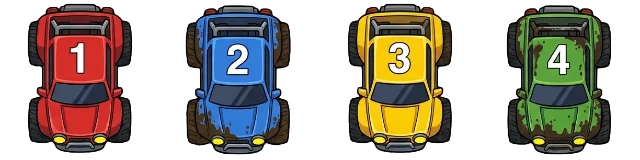
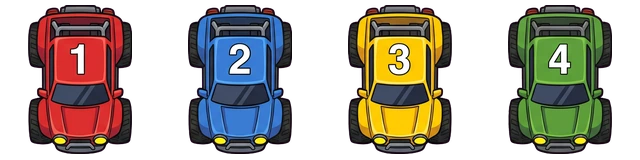
Auto che si sporcano di fango
Gemini ha ridisegnato le 4 auto pulite (img/auto.webp: prima la blu e
la verde partivano già infangate) e 8 schizzi di fango
(img/schizzi.webp). Ogni secondo nel fango aggiunge schizzi sulla
carrozzeria, ritagliati sulla sagoma dell'auto: prima fiancate e
paraurti, poi cofano e tetto. L'acqua ne lava via una parte; ogni gara
si riparte puliti. Solo disegno: la simulazione non cambia.

diff --git a/game.js b/game.js
@@ -19,7 +19,7 @@
   // La grafica viene da Gemini (design/ sono i bozzetti, img/ gli asset scontornati):
   // texture di terreno e strada ripetute, oggetti di contorno a fogli 4×2 da 160 px.
   const ART = {};
-  const ART_FILES = ["auto", "nitro", "cava-terreno", "cava-strada", "cava-oggetti", "palude-terreno", "palude-strada", "palude-oggetti", "dune-terreno", "dune-strada", "dune-oggetti", "fango", "pozzanghere"];
+  const ART_FILES = ["auto", "nitro", "cava-terreno", "cava-strada", "cava-oggetti", "palude-terreno", "palude-strada", "palude-oggetti", "dune-terreno", "dune-strada", "dune-oggetti", "fango", "pozzanghere", "schizzi"];
   const loadArt = () => Promise.all(ART_FILES.map((n) => new Promise((ok) => {
     const im = new Image();
     im.onload = () => { ART[n] = im; ok(); };
@@ -216,6 +216,8 @@
     skid = document.createElement("canvas"); skid.width = W * S; skid.height = H * S;
     skidG = skid.getContext("2d"); skidG.scale(S, S);
     parts = [];
+    mud = [0, 0, 0, 0];
+    dirt = cars.map((c) => dirtOf(race.seed + c.i * 7919));
   }
 
   // dagli eventi della gara: suoni, vibrazioni, particelle e l'archivio dei record
@@ -236,11 +238,15 @@
     finish: (e) => { sfx("finish"); Net.rumble(e.i, 200); },
   };
 
-  // segni delle gomme, polvere e fiamma del nitro: solo disegno, ricavati dallo stato dell'auto
+  // segni delle gomme, polvere, fiamma del nitro e fango sulla carrozzeria: solo disegno,
+  // ricavati dallo stato dell'auto
   function trail(c, dt) {
     if (c.z > 0.5) return;
     const fx = Math.cos(c.a), fy = Math.sin(c.a), s = T.surf[c.idx];
     const lat = -c.vx * fy + c.vy * fx, speed = Math.hypot(c.vx, c.vy);
+    const moving = Math.min(1, speed / 40);
+    if (s === 1) mud[c.i] = Math.min(1, mud[c.i] + MUD_GAIN * moving * dt);
+    else if (s === 2) mud[c.i] *= Math.exp(-MUD_WASH * moving * dt);
     if (Math.abs(lat) > 28 || c.boost > 0 || s === 1) {
       skidG.fillStyle = s === 1 ? "rgba(40,22,8,.35)" : "rgba(50,30,15,.16)";
       for (const side of [-1, 1]) skidG.fillRect(c.x - fx * 5 - fy * 3.5 * side - 1, c.y - fy * 5 + fx * 3.5 * side - 1, 2, 2);
@@ -264,6 +270,55 @@
     }
   }
 
+  // ------------------------------------------------------------ fango sulle auto
+  // Ogni secondo passato nel fango sporca l'auto, l'acqua ne lava via una parte; ogni gara
+  // si riparte puliti. Lo sporco sono gli schizzi di Gemini (schizzi.webp, 8 celle da 160 px)
+  // appoggiati sullo sprite dell'auto e ritagliati sulla sua sagoma: compaiono uno alla volta,
+  // prima su fiancate vicino alle ruote, paraurti e retro, poi anche su cofano e tetto, e
+  // l'acqua toglie per primi gli ultimi arrivati.
+  const MUD_GAIN = 0.35, MUD_WASH = 0.8, SPOTS = 16;
+  const STREAKS = [1, 4, 5, 7];              // gli schizzi a colata, disegnati in diagonale
+  let mud = [0, 0, 0, 0], dirt = [];
+
+  // in coordinate della cella di auto.webp: auto larga ~104 px e lunga ~149, muso in basso
+  function dirtOf(seed) {
+    const R = rng(seed), spots = [];
+    for (let k = 0; k < SPOTS; k++) {
+      let x, y;
+      if (k < SPOTS * 0.6) {
+        const side = R() < 0.5 ? -1 : 1;
+        if (R() < 0.7) { x = 80 + side * (32 + R() * 14); y = R() < 0.5 ? 22 + R() * 38 : 100 + R() * 45; }   // ruote
+        else { x = 48 + R() * 64; y = R() < 0.5 ? 6 + R() * 14 : 138 + R() * 14; }                          // paraurti
+      } else { x = 44 + R() * 72; y = 20 + R() * 120; }                                                     // ovunque
+      const n = (R() * 8) | 0;
+      // le colate vanno all'indietro, come il fango tirato su dalle ruote
+      const a = STREAKS.includes(n) ? -0.87 + (R() - 0.5) * 0.6 : R() * Math.PI * 2;
+      spots.push({ n, x, y, a, size: 30 + R() * 22 });
+    }
+    const cv = document.createElement("canvas"); cv.width = cv.height = CELL;
+    return { cv, g: cv.getContext("2d"), spots, shown: 0 };
+  }
+
+  // l'auto con i suoi schizzi, ridisegnata solo quando ne cambia il numero; null se pulita
+  function dirtyCar(c) {
+    const d = dirt[c.i], n = Math.min(SPOTS, Math.floor(mud[c.i] * SPOTS));
+    if (!ART.schizzi || !d || n === 0) return null;
+    if (n !== d.shown) {
+      const g = d.g;
+      d.shown = n;
+      g.clearRect(0, 0, CELL, CELL);
+      g.drawImage(ART.auto, c.i * CELL, 0, CELL, CELL, 0, 0, CELL, CELL);
+      g.globalCompositeOperation = "source-atop";
+      for (const sp of d.spots.slice(0, n)) {
+        g.save(); g.translate(sp.x, sp.y); g.rotate(sp.a);
+        g.drawImage(ART.schizzi, (sp.n % 4) * CELL, (sp.n >> 2) * CELL, CELL, CELL, -sp.size / 2, -sp.size / 2, sp.size, sp.size);
+        g.restore();
+      }
+      g.globalCompositeOperation = "source-over";
+    }
+    return d.cv;
+  }
+
   // ------------------------------------------------------------ disegno
   // auto.webp: 4 celle da 160 px, l'auto vista dall'alto col muso in basso; lunga ~20 px di gioco
   const CAR_SIZE = 21.5;
@@ -284,7 +339,9 @@
     }
     if (ART.auto) {
       ctx.rotate(-Math.PI / 2);
-      ctx.drawImage(ART.auto, c.i * CELL, 0, CELL, CELL, -CAR_SIZE / 2, -CAR_SIZE / 2, CAR_SIZE, CAR_SIZE);
+      const dirty = dirtyCar(c);
+      if (dirty) ctx.drawImage(dirty, -CAR_SIZE / 2, -CAR_SIZE / 2, CAR_SIZE, CAR_SIZE);
+      else ctx.drawImage(ART.auto, c.i * CELL, 0, CELL, CELL, -CAR_SIZE / 2, -CAR_SIZE / 2, CAR_SIZE, CAR_SIZE);
     } else { ctx.fillStyle = colorOf(c.i); ctx.fillRect(-9, -5.5, 18, 11); }
     ctx.restore();
     ctx.globalAlpha = 1;
@@ -564,7 +621,7 @@
   }
 
   // per i test dal browser
-  window.Fango = { Sim, get race() { return race; }, get cars() { return cars; }, get phase() { return phase; }, get track() { return T; }, records,
+  window.Fango = { Sim, get race() { return race; }, get cars() { return cars; }, get mud() { return mud; }, get phase() { return phase; }, get track() { return T; }, records,
     get rev() { return rev; }, set rev(v) { rev = !!v; }, setupRace, start: () => toCount() };
 
   loadArt().then(() => { toLobby(); requestAnimationFrame(frame); });

diff --git a/index.html b/index.html
@@ -139,6 +139,6 @@
   <script src="vendor/peerjs.min.js"></script>
   <script src="net.js?v=8"></script>
   <script src="sim.js?v=1"></script>
-  <script src="game.js?v=15"></script>
+  <script src="game.js?v=16"></script>
 </body>
 </html>

diff --git a/MIGLIORIE.md b/MIGLIORIE.md
@@ -9,10 +9,7 @@ Per la grafica vale la regola del progetto: gli asset nuovi li disegna Gemini, i
 ## 1. Estetica — in pista
 
 ### Auto
-- **Le auto si sporcano di fango.** È il nome del gioco: ogni passaggio nel fango o nell'acqua
-  aggiunge una patina sulla carrozzeria (overlay semitrasparente sullo sprite, che l'acqua in parte
-  lava via). Si vede subito chi ha preso la strada peggiore. *Impatto alto · S–M*
-- **Ombra vera dell'auto.** Oggi è un rettangolo arrotondato (`drawCar`, game.js:563). Un'ombra
+- **Ombra vera dell'auto.** Oggi è un rettangolo arrotondato (`drawCar` in game.js). Un'ombra
   ricavata dallo sprite (silhouette scurita e sfocata, calcolata una volta) è molto più credibile,
   soprattutto nei salti. *Medio · S*
 - **Rollio e beccheggio finti.** Leggera deformazione dello sprite in curva e in frenata
@@ -176,11 +173,17 @@ Per la grafica vale la regola del progetto: gli asset nuovi li disegna Gemini, i
 
 ## Da dove partirei
 
-1. Auto che si sporcano di fango, schizzi nell'acqua e suoni delle superfici: il carattere del gioco.
+1. Schizzi nell'acqua e suoni delle superfici: il carattere del gioco.
 2. Fantasma del record e «ULTIMO GIRO!»: obiettivi chiari per chi è indietro.
 3. Canale dei comandi non ordinato e risoluzione adattiva: si sentono e si vedono sulla TV vera.
 
 ## Fatto
+
+- **Le auto si sporcano di fango.** Gemini ha ridisegnato le 4 auto pulite (`img/auto.webp`; prima
+  la blu e la verde partivano già infangate) e 8 schizzi di fango (`img/schizzi.webp`). Ogni
+  secondo nel fango aggiunge schizzi sulla carrozzeria, ritagliati sulla sagoma dell'auto: prima
+  fiancate vicino alle ruote e paraurti, poi cofano e tetto. L'acqua ne lava via una parte, ogni
+  gara si riparte puliti.
 
 - **Simulazione deterministica.** La gara (piste, fisica, IA, giri, record) è in `sim.js`, senza
   disegno né DOM, e il caso viene da un generatore col seme della gara: stesso seme, stessi comandi

diff --git a/README.md b/README.md
@@ -10,6 +10,8 @@ basta inquadrare il QR. I posti vuoti li guida il computer.
 - coppa sulle 3 piste in fila: 10, 6, 3 e 1 punti per piazzamento, a pari punti
   conta l'ultima gara; tornando alla sala d'attesa la coppa ricomincia
 - salti, fango, acqua e dossi che cambiano aderenza e velocità
+- le auto si sporcano passando nel fango e l'acqua ne lava via una parte: si vede
+  chi ha preso la strada peggiore
 - nitro: 3 a testa, altre bombolette compaiono sulla pista
 - urti tra auto, vibrazione sul telefono a urti, atterraggi e traguardo; chi viene
   colpito forte di fianco fa un breve testacoda
@@ -68,4 +70,5 @@ auto ricollegandosi; nel frattempo la guida il computer.
 - `img/` — gli asset disegnati da Gemini e scontornati: `auto.webp` e `piloti.webp`
   (4 celle, nell'ordine dei posti), `*-oggetti.webp` (8 celle da 160 px),
   `*-terreno.webp` e `*-strada.webp` (texture ripetute), `fango.webp` e
-  `pozzanghere.webp` (6 celle da 200 px, nei tratti di fango e d'acqua), `logo`, `nitro`, `volante`
+  `pozzanghere.webp` (6 celle da 200 px, nei tratti di fango e d'acqua), `schizzi.webp`
+  (8 celle da 160 px, il fango che sporca le auto), `logo`, `nitro`, `volante`
